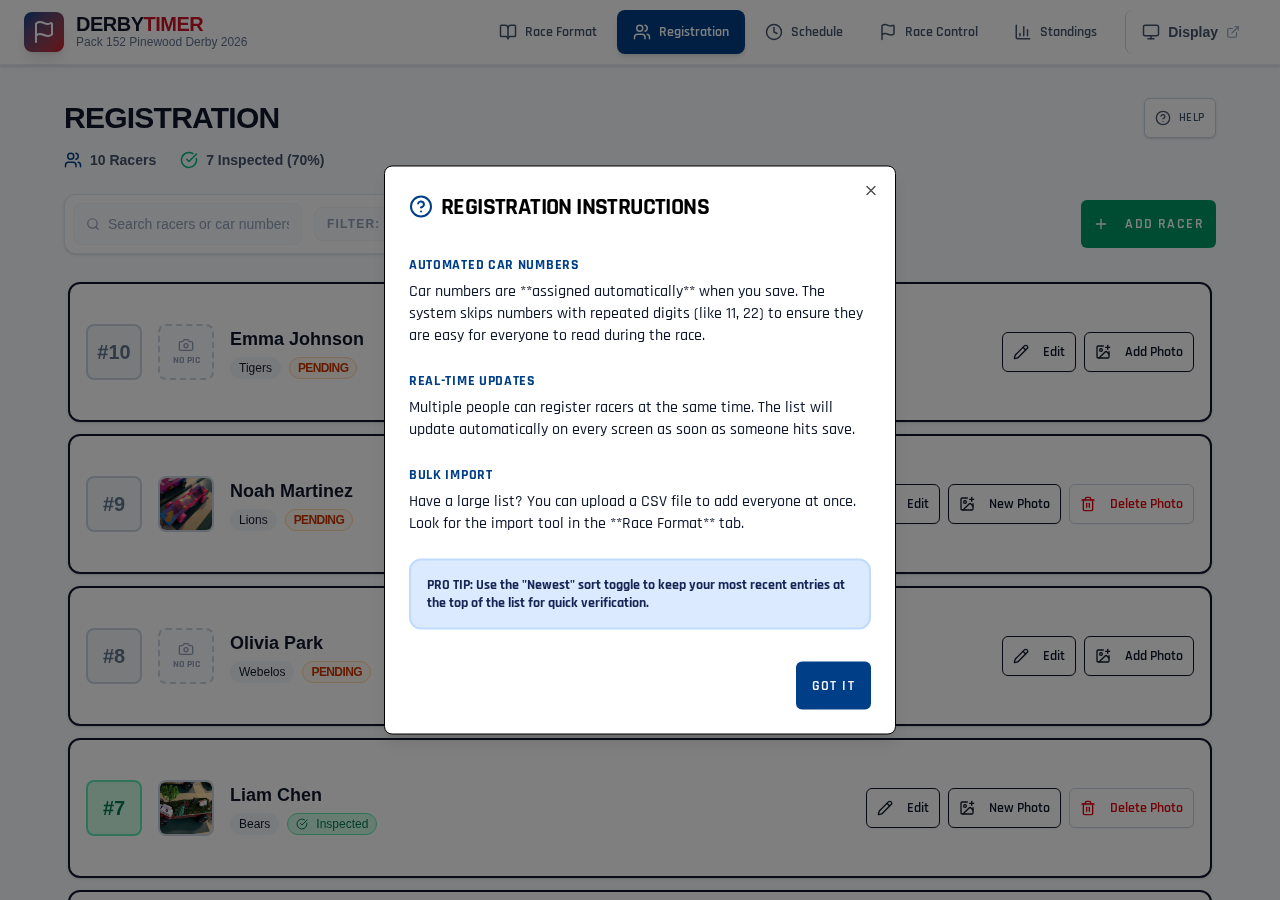
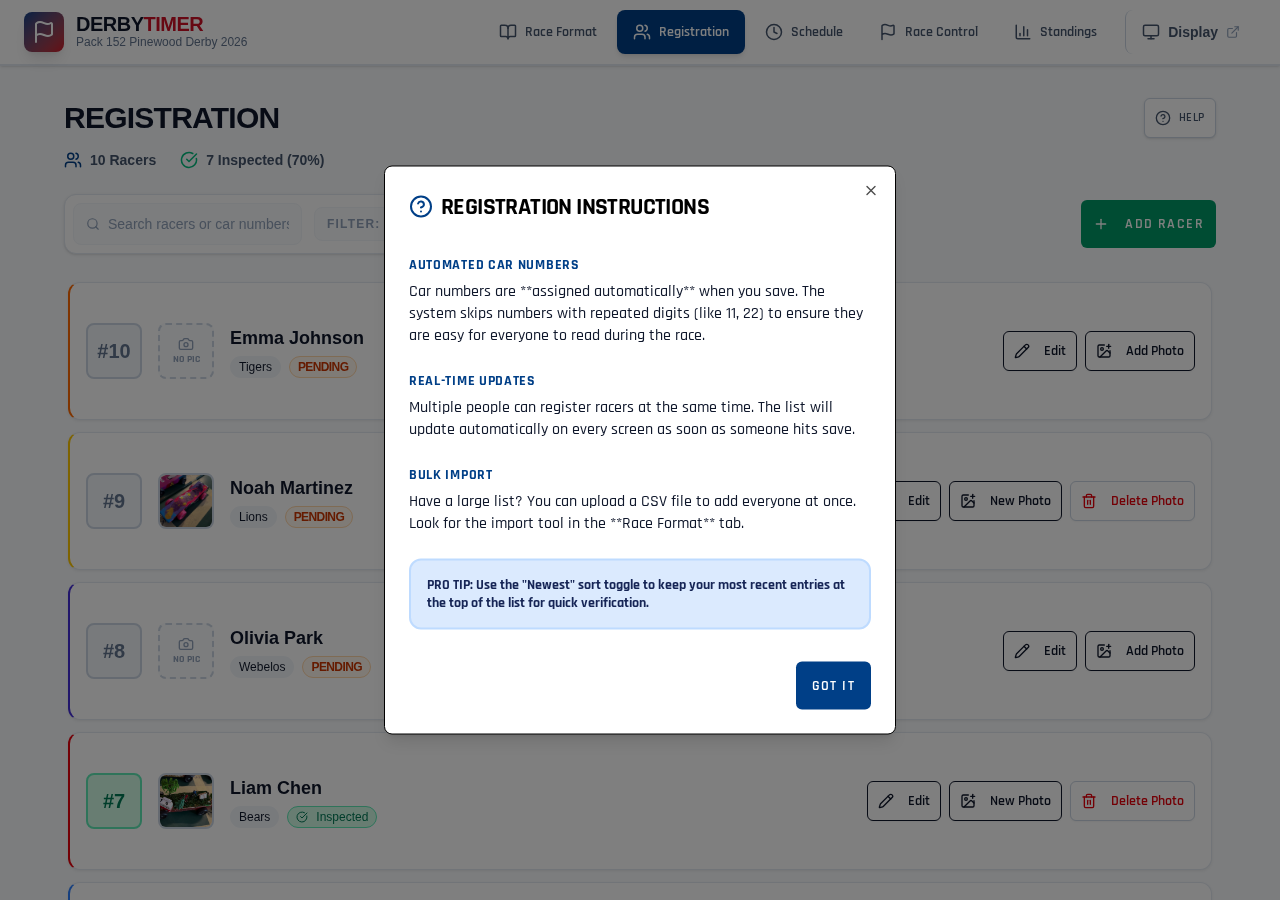
chore: update screenshots and e2e tests for PR2 UI changes
Regenerated all 13 screenshots reflecting nav stripe, registration tabs,
inspection layout, and filter bar updates. Updated e2e selectors for
renamed tab IDs (registerTab / inspectionTab).

diff --git a/e2e/inspection.playwright.ts b/e2e/inspection.playwright.ts
@@ -30,7 +30,7 @@ test.describe('Inspection pass/fail', () => {
 
     // Switch to inspection tab
     await page.click('[data-testid="nav-register"]');
-    await page.locator('[data-testid="switch-inspection"]').click();
+    await page.locator('[data-testid="tab-inspection"]').click();
 
     // The full-page loader should never become visible during inspection
     const fullPageLoader = page.locator('text=Loading Race Data');
@@ -59,7 +59,7 @@ test.describe('Inspection pass/fail', () => {
     await page.goto(`${baseUrl}/`);
     await page.click(`[data-testid="event-card"]:has-text("${event.name}")`);
     await page.click('[data-testid="nav-register"]');
-    await page.locator('[data-testid="switch-inspection"]').click();
+    await page.locator('[data-testid="tab-inspection"]').click();
 
     const fullPageLoader = page.locator('text=Loading Race Data');
     await expect(fullPageLoader).not.toBeVisible();

diff --git a/e2e/screenshots.playwright.ts b/e2e/screenshots.playwright.ts
@@ -163,7 +163,7 @@ test('04-registration-inspection-list', async ({ page }) => {
   await page.click('[data-testid="nav-register"]');
   await page.waitForTimeout(600);
 
-  await page.locator('[data-testid="switch-inspection"]').click();
+  await page.locator('[data-testid="tab-inspection"]').click();
   await page.waitForTimeout(600);
 
   saveIfChanged('screenshots/04-registration-inspection-list.png', await page.screenshot({ fullPage: true }));

diff --git a/AGENTS.md b/AGENTS.md
@@ -110,15 +110,13 @@ Always use Tailwind utility classes over custom CSS:
 
 **Target: Elementary school volunteers under mild chaos**
 
-### Visual Design for Projection
+### Visual Design for Accessibility
 - **Light mode only** - projects better, easier to read in lit rooms
 - **High contrast** - slate-900 text on white backgrounds minimum
-- **Large typography** - text-xl minimum for headers, text-lg for content
+- **Large typography on Display Pages** - text-xl minimum for headers, text-lg for content
+- **Minimum font size** - `text-xs` (12px) is the smallest allowed text size anywhere in the UI. Never use `text-[10px]`, `text-[9px]`, or any smaller size — even for labels, badges, or secondary info.
 - **Bold weights** - font-bold, font-black for emphasis
 - **Orange accent color** (#f97316) for CTAs and highlights
-
-### Accessibility
-- **Minimum font size** - `text-xs` (12px) is the smallest allowed text size anywhere in the UI. Never use `text-[10px]`, `text-[9px]`, or any smaller size — even for labels, badges, or secondary info.
 
 ### "Derp" UX - Foolproof Simplicity
 - **One action per screen** - don't overwhelm users
@@ -157,6 +155,12 @@ Bun.serve({
   }
 })
 ```
+
+## Domain & Race Context
+
+- **Manual Setup** - Race day logistics (staging cars, moving them to the track) are manual processes managed by volunteers. The software must accommodate the slow, physical nature of these steps.
+- **Local Netowrk Setup** - Voluneers will be using their photos for registration and for lane setup. smaller fonts and mobile accessbility are important. Parents and other can access public pages. Dedicated display pages will be created for projector use. 
+- **Car-to-Lane Integrity** - Maintaining the exact relationship between a car and its assigned lane for each heat is critical. Results are tied directly to the lane number where the car finished. During lane setup, car photos are essential for error detection. They allow volunteers to visually confirm that the physical car in a lane matches the digital record, helping them identify and correct staging errors before the race begins.
 
 ## Data Model Simplicity
 
